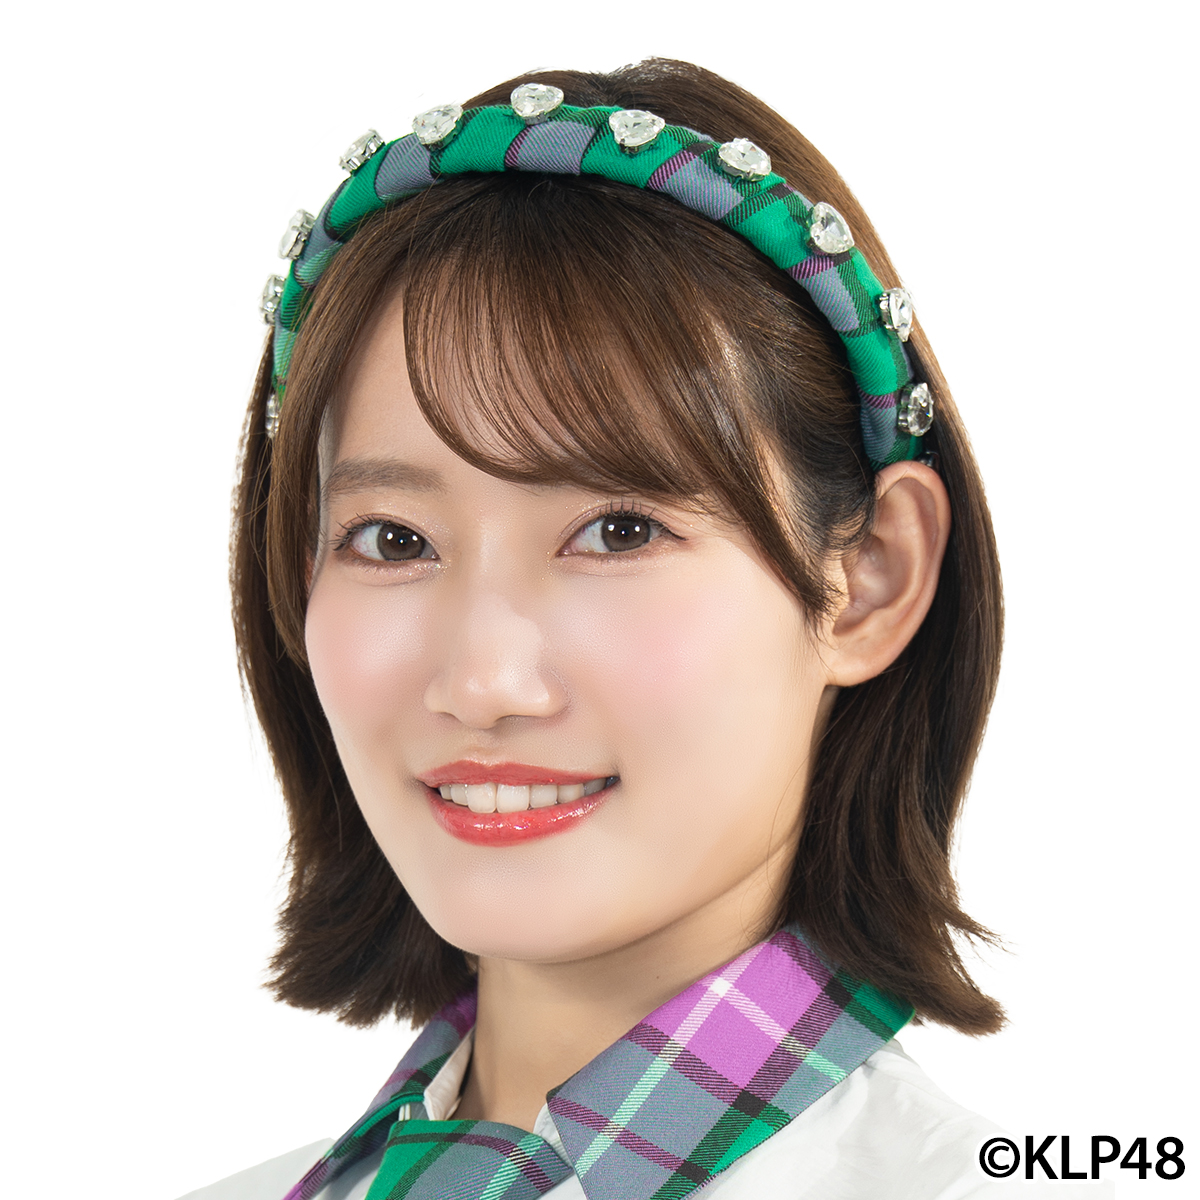
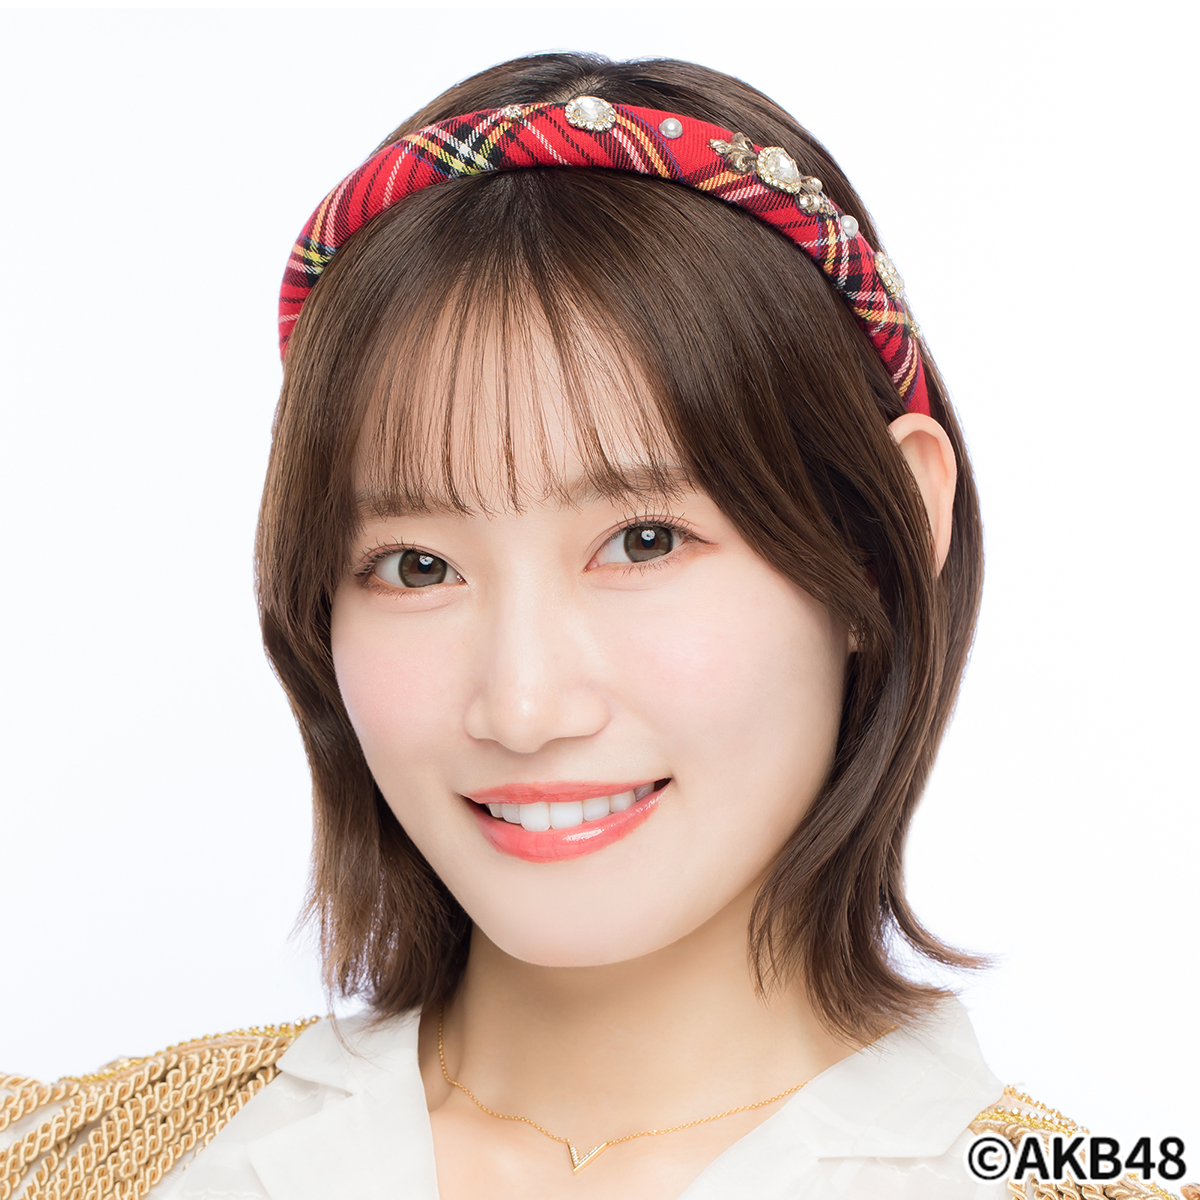
Add files via upload

diff --git a/member.html b/member.html
@@ -242,6 +242,26 @@
             <h5>21期　渡邉葵心</h5>
             <p>わたなべ　きこ</p>
           </div>
+          <div class="swiper-slide">
+            <img src="o_yuna.jpg" width="300" height="300" alt="">
+            <h5>22期　大西ゆな</h5>
+            <p>おおにし　ゆな</p>
+          </div>
+          <div class="swiper-slide">
+            <img src="h_momoka.jpg" width="300" height="300" alt="">
+            <h5>22期　長谷川百々花</h5>
+            <p>はせがわ　ももか</p>
+          </div>
+          <div class="swiper-slide">
+            <img src="m_izumi.jpg" width="300" height="300" alt="">
+            <h5>22期　前田衣澄</h5>
+            <p>まえだ　いずみ</p>
+          </div>
+          <div class="swiper-slide">
+            <img src="y_rinoa.jpg" width="300" height="300" alt="">
+            <h5>22期　山内利乃明</h5>
+            <p>やまうち　りのあ</p>
+          </div>
 
 
 
@@ -305,24 +325,25 @@
         <li><a href="#19ki">１９期</a></li>
         <li><a href="#20ki">２０期</a></li>
         <li><a href="#21ki">２１期</a></li>
+        <li><a href="#22ki">２２期</a></li>
         <br>
       </ul>
     </nav>
     <div class="message">秋田県　柱の会　有志制作</div>
 
     <main>
-      <h2 class="color1">正式（正規）メンバー３７人、　研究生８人、　計　４５ 人</h2>
+      <h2 class="color1">正式（正規）メンバー３７人、　研究生１２人、　計　４９ 人</h2>
       <center>
         <p>13期生（1人）、15期生（1人）、Team８（9人）、ドラ２期生（1人）、16期生（5人）、17期生（9人）、18期生（8人）、19期（3人）<br>
-          20期研究生（3人）、21期研究生（5人）</p>
+          20期研究生（3人）、21期研究生（5人）、22期研究生（４人）</p>
       </center>
       <br>
-      <h3>在籍者数（延べ人数）＝　３６５人（実数３６１人）</h3>
+      <h3>在籍者数（延べ人数）＝　実数３６４人（延べ人数３６９人）</h3>
       <p>
-        1期（21）、2期（17）、3期（13）、4期（18）、5期（12）、6期（4）、7期（10）、8期（15）、9期（14）、10期（10）、11期（10）、12期（9）、13期（16）、14期（6）、15期（12）、兼任（15）、ドラ1期（6）、移籍（4）、大人AKB（1）、チーム8（75）、ドラ2期（7）、留学（1）、16期（19）、ドラ3期（18）、17期（11）、18期（8）、19期（5）、20期（3）、21期（5）
+        1期（21）、2期（17）、3期（13）、4期（18）、5期（12）、6期（4）、7期（10）、8期（15）、9期（14）、10期（10）、11期（10）、12期（9）、13期（16）、14期（6）、15期（12）、兼任（15）、ドラ1期（6）、移籍（4）、大人AKB（1）、チーム8（75）、ドラ2期（7）、留学（1）、16期（19）、ドラ3期（18）、17期（11）、18期（8）、19期（5）、20期（3）、21期（5）、22期（4）
       </p>
       <p><small>※　バーチャルアイドルの江口愛実と、バイトAKB（36）は、含めていません。<br>
-          ※　実数にする場合は、重複者が4人いますので、―４で計算すると３６１人になります。</small></p>
+          ※　実数にする場合は、重複者が５人いますので、―５で計算すると３６４人になります。</small></p>
 
       <p>
         <font color="blue">生年月日、（血液型）、出身、在籍期間、チーム歴、愛称、その他（公表時の身長、スリーサイズ）</font>
@@ -333,8 +354,8 @@
         <dl>
           <img src="itano-tomomi.jpg" alt="板野友美の写真" width="100" height="150" align="left">
           <dt class="tcolor">・板野友美 Tomomi Itano</dt>
-          <dd class="dcolor">1991年7月3日、A型、神奈川、05年10月→13年8月、A→K、ともちん、154、80・55・78、<a
-              href="https://rosyluce.com/" target="_blank">ROSY LUCY</a>の代表取締役</dd>
+          <dd class="dcolor">1991年7月3日、A型、神奈川、05年10月→13年8月、A→K、ともちん、154、80・55・78、<a href="https://rosyluce.com/"
+              target="_blank">ROSY LUCY</a>の代表取締役</dd>
           <dt class="tcolor">・宇佐美友紀 Yuki Usami</dt>
           <dd class="dcolor">1984年12月6日、埼玉、05年10月→06年3月、A、ゆっきー</DD>
           <dt class="tcolor">・浦野一美 Kazumi Urano（SDN481期生移籍・卒業）</dt>
@@ -385,8 +406,8 @@
               target="_blank">株式会社Atsuko</a></dd>
           <img src="nakamurakayano.jpg" alt="増山加弥乃の写真" width="80" height="110" align="left">
           <dt class="tcolor">・増山加弥乃 （本名　中村加弥乃）Kayano Masuyama</dt>
-          <dd class="dcolor">1994年2月10日、東京、05年10月→07年11月、A、かやの、<a
-              href="https://www.stardust.co.jp/talent/section1/" target="_blank">スターダストプロモーション</a></dd>
+          <dd class="dcolor">1994年2月10日、東京、05年10月→07年11月、A、かやの、<a href="https://www.stardust.co.jp/talent/section1/"
+              target="_blank">スターダストプロモーション</a></dd>
           <img src="minamiminegishi_new.jpg" alt="峯岸みなみの写真" width="100" height="100" align="left">
           <dt class="tcolor">・峯岸みなみ Minami Minegishi</dt>
           <dd class="dcolor">1992年11月15日、B型、東京、05年10月→21年5月、A→K→B→研究生→4→K、みいちゃん、158、80・60・86、<a
@@ -501,12 +522,12 @@
               target="_blank">ワタナベエンターテインメント</a></dd>
           <img src="kuramochi_asuka.jpeg" alt="倉持明日香の写真" width="100" height="100" align="left">
           <dt class="tcolor">・倉持明日香 Asuka Kuramochi</dt>
-          <dd class="dcolor">1989年9月11日、神奈川、07年5月→15年8月、K→A→K→B、もっちぃ、<a href="https://www.zest-corp.com/management/4699/"
-              target="_blank">ゼスト</a></dd>
+          <dd class="dcolor">1989年9月11日、神奈川、07年5月→15年8月、K→A→K→B、もっちぃ、<a
+              href="https://www.zest-corp.com/management/4699/" target="_blank">ゼスト</a></dd>
           <img src="SatoAmina.jpg" alt="佐藤亜美菜の写真" width="90" height="130" align="left">
           <dt class="tcolor">・佐藤亜美菜 Amina SAto</dt>
-          <dd class="dcolor">1990年10月16日、東京、07年5月→14年6月、A→K、あみな、<a
-              href="https://osawa-inc.co.jp/women/satoamina/" target="_blank">大沢事務所</a></dd>
+          <dd class="dcolor">1990年10月16日、東京、07年5月→14年6月、A→K、あみな、<a href="https://osawa-inc.co.jp/women/satoamina/"
+              target="_blank">大沢事務所</a></dd>
           <dt class="tcolor">・佐伯美香 Mika Saeki（チームB卒業→バイトAKB加入・契約満了）</dt>
           <dd class="dcolor">1989年10月29日、栃木、07年5月→09年8月、B、みかちぃ</dd>
           <img src="nakata_chisato.webp" alt="中田ちさとの写真" width="90" height="120" align="left">
@@ -598,8 +619,8 @@
         <dl>
           <img src="takajoup_aki.jpg" alt="高城亜樹の写真" width="90" height="110" align="left">
           <dt class="tcolor">・高城亜樹 Aki Takajo</dt>
-          <dd class="dcolor">1991年10月3日、東京、08年3月→12年10月、13年4月→16年2月、A→B→K、あきちゃ、<a href="https://www.horipro.co.jp/takajoaki/"
-              target="_blank">ホリプロ</a></dd>
+          <dd class="dcolor">1991年10月3日、東京、08年3月→12年10月、13年4月→16年2月、A→B→K、あきちゃ、<a
+              href="https://www.horipro.co.jp/takajoaki/" target="_blank">ホリプロ</a></dd>
           <img src="nonaka_misato.webp" alt="野中美郷の写真" width="80" height="110" align="left">
           <dt class="tcolor">・野中美郷 Misato Nonaka</dt>
           <dd class="dcolor">1991年4月20日、福岡、08年3月→14年4月、K→B、みちゃ、</dd>
@@ -984,15 +1005,18 @@
         <dt>・小谷里歩 Riho Kotani</dt>
         <dd>兼任元NBM48チームN　→　兼任先AKB48チームA,兼任期間　2012.11.1 → 2013.4.28</dd>
         <dt>・石田杏奈 Anna Ishida</dt>
-        <dd>兼任元SKE48チームKⅡ　→　兼任先AKB48チームB,兼任期間　2012.11.1 → 2013.4.28、<a href="https://thaleiartlife.com/" target="_blank">株式会社ANNA24</a></dd>
+        <dd>兼任元SKE48チームKⅡ　→　兼任先AKB48チームB,兼任期間　2012.11.1 → 2013.4.28、<a href="https://thaleiartlife.com/"
+            target="_blank">株式会社ANNA24</a></dd>
         <dt>・古畑奈和 Nao Furuhata</dt>
-        <dd>兼任元SKE48チームE　→　兼任先AKB48チームK→A,兼任期間　2013.4.28 → 2015.5.29、<a href="https://www.zest-corp.com/" target="_blank">ゼスト</a></dd>
+        <dd>兼任元SKE48チームE　→　兼任先AKB48チームK→A,兼任期間　2013.4.28 → 2015.5.29、<a href="https://www.zest-corp.com/"
+            target="_blank">ゼスト</a></dd>
         <dt>・児玉　遥 Haruka Kodama</dt>
         <dd>兼任元HKT48チームH　→　兼任先AKB48チームA→K,兼任期間　2013.4.28 → 2018.4.1</dd>
         <dt>・渡辺美優紀 Miyuki Watanabe</dt>
         <dd>兼任元NBM48チームN　→　兼任先AKB48チームB,兼任期間　2012.3.24 → 2014.4.23</dd>
         <dt>・生駒里奈 Rina Ikoma</dt>
-        <dd>兼任元　乃木坂46　→　兼任先AKB48チームB,兼任期間　2014.4.24 → 2015.5.14,交換留学生、<a href="https://www.crg.jp/rina-ikoma" target="_blank">CRG</a></dd>
+        <dd>兼任元　乃木坂46　→　兼任先AKB48チームB,兼任期間　2014.4.24 → 2015.5.14,交換留学生、<a href="https://www.crg.jp/rina-ikoma"
+            target="_blank">CRG</a></dd>
         <dt>・矢倉楓子 Fuko Yagura</dt>
         <dd>兼任元NBM48チームM　→　兼任先AKB48チームA,兼任期間　2013.4.28 → 2015.5.29</dd>
         <dt>・朝長美桜 Mio Tomonaga</dt>
@@ -1000,17 +1024,23 @@
         <dt>・松井珠理奈 Jyurina Matui</dt>
         <dd>兼任元SKE48チームS　→　兼任先AKB48チームK,兼任期間　2012.3.24 → 2015.12.24</dd>
         <dt>・山本　彩 Sayaka Yamamoto</dt>
-        <dd>兼任元NBM48チームN　→　兼任先AKB48チームK,兼任期間　2014.4.17 → 2016.5.26、<a href="https://yamamotosayaka.jp/" target="_blank">株式会社SYCompany</a></dd>
+        <dd>兼任元NBM48チームN　→　兼任先AKB48チームK,兼任期間　2014.4.17 → 2016.5.26、<a href="https://yamamotosayaka.jp/"
+            target="_blank">株式会社SYCompany</a></dd>
         <dt>・渋谷凪咲 Nagisa Shibuya</dt>
-        <dd>兼任元NBM48チームM　→　兼任先AKB48チーム4,兼任期間　2014.4.16 → 2018.4.1、<a href="https://n-rise-y.co.jp/" target="_blank">株式会社N-Rise</a></dd>
+        <dd>兼任元NBM48チームM　→　兼任先AKB48チーム4,兼任期間　2014.4.16 → 2018.4.1、<a href="https://n-rise-y.co.jp/"
+            target="_blank">株式会社N-Rise</a></dd>
         <dt>・宮脇咲良 Sakura Miyawaki</dt>
-        <dd>兼任元HKT48チームKⅣ　→　兼任先AKB48チームA,兼任期間　2014.4.22 → 2018.4.1、IZ*ONE→LE SSERAFIM、<a href="https://sourcemusic.com/" target="_blank">source music</a></dd>
+        <dd>兼任元HKT48チームKⅣ　→　兼任先AKB48チームA,兼任期間　2014.4.22 → 2018.4.1、IZ*ONE→LE SSERAFIM、<a href="https://sourcemusic.com/"
+            target="_blank">source music</a></dd>
         <dt>・北川綾巴 Ryoha Kitagawa</dt>
-        <dd>兼任元SKE48チームS　→　兼任先AKB48チーム4,兼任期間　2015.9.1 → 2018.4.1、<a href="http://www.form-japan.com/" target="_blank">FORM JAPAN</a></dd>
+        <dd>兼任元SKE48チームS　→　兼任先AKB48チーム4,兼任期間　2015.9.1 → 2018.4.1、<a href="http://www.form-japan.com/"
+            target="_blank">FORM JAPAN</a></dd>
         <dt>・白間美瑠 Miru Shiroma</dt>
-        <dd>兼任元NBM48チームM　→　兼任先AKB48チームA,兼任期間　2015.9.1 → 2018.4.1、<a href="https://shiromamiru.jp/feature/offer" target="_blank">株式会社 Fcontinue</a></dd>
+        <dd>兼任元NBM48チームM　→　兼任先AKB48チームA,兼任期間　2015.9.1 → 2018.4.1、<a href="https://shiromamiru.jp/feature/offer"
+            target="_blank">株式会社 Fcontinue</a></dd>
         <dt>・矢吹奈子 Nako Yabuki</dt>
-        <dd>兼任元HKT48チームH　→　兼任先AKB48チームB,兼任期間　2015.9.1 → 2018.4.1、<a href="https://www.tp-e.jp/talent/yabukinako/" target="_blank">TWIN PLANET</a></dd>
+        <dd>兼任元HKT48チームH　→　兼任先AKB48チームB,兼任期間　2015.9.1 → 2018.4.1、<a href="https://www.tp-e.jp/talent/yabukinako/"
+            target="_blank">TWIN PLANET</a></dd>
       </section>
       <br>
       <section id="dora1">
@@ -1021,15 +1051,17 @@
           <dd>2001年7月19日、O型、千葉、14年1月→24年2月、K、ひなな、167、カメラマン（フリーランス）</dd>
           <img src="kawamoto_saya.jpeg" alt="川本紗矢の写真" width="100" height="100" align="left">
           <dt>・川本紗矢 Saya Kawamoto</dt>
-          <dd>1998年8月31日、B型、北海道、14年1月→20年8月、B→4、さやや、157、84・62・87、<a href="https://sophiepro.jp/talent/%e5%b7%9d%e6%9c%ac-%e7%b4%97%e7%9f%a2/"
-              target="_blank">ソフィープロモーション</a></dd>
+          <dd>1998年8月31日、B型、北海道、14年1月→20年8月、B→4、さやや、157、84・62・87、<a
+              href="https://sophiepro.jp/talent/%e5%b7%9d%e6%9c%ac-%e7%b4%97%e7%9f%a2/" target="_blank">ソフィープロモーション</a>
+          </dd>
           <img src="gotou_moe.avif" alt="後藤萌咲の写真" width="100" height="100" align="left">
           <dt>・後藤萌咲 Moe Goto</dt>
           <dd>2001年5月20日、O型、愛知、14年1月→19年8月、K→B、もえきゅん、171、<a href="https://www.mewgull.co.jp/"
               target="_blank">Mewgull</a></dd>
           <img src="takita_kayoko.jpg" alt="田北香世子の写真" width="100" height="80" align="left">
           <dt>・田北香世子 Kayoko Takita</dt>
-          <dd>1997年2月13日、O型、千葉、14年1月→22年2月、A→B、かよよん、155、<a href="https://plus-p.jp/talents/takita-kayoko/" target="_blank">プリュ</a>
+          <dd>1997年2月13日、O型、千葉、14年1月→22年2月、A→B、かよよん、155、<a href="https://plus-p.jp/talents/takita-kayoko/"
+              target="_blank">プリュ</a>
           </dd>
           <dt>・西山怜那 Rena Nishiyama</dt>
           <dd>2001年1月14日、O型、青森、14年1月→15年12月、A、にっすぃー、151</dd>
@@ -1116,7 +1148,8 @@
               target="_blank">Sizuk Entertainment</a></dd>
           <img src="yokoyama_yui8.jpg" alt="横山結衣の写真" width="100" height="100" align="left">
           <dt>［青森県］・横山結衣 Yui Yokoyama　2025年芸名「相馬 結衣」（そうま・ゆい）に変更</dt>
-          <dd>2001年2月22日、O型、14年4月→21年11月、8、ヨコちゃん、160、<a href="https://fabfactory.co.jp/" target="_blank">株式会社FabFactory</a></dd>
+          <dd>2001年2月22日、O型、14年4月→21年11月、8、ヨコちゃん、160、<a href="https://fabfactory.co.jp/"
+              target="_blank">株式会社FabFactory</a></dd>
           <dt>［秋田県］・谷川聖 Hijiri Tanikawa</dt>
           <dd>2000年12月26日、A型、秋田、14年4月→19年5月、8→8/A、ひじりん、160</dd>
           <dt>　　　　 ・布谷梨琉 Riru Nunoya</dt>
@@ -1141,14 +1174,15 @@
           <dd>2004年5月19日、AB型、8、18年4月→19年8月、149</dd>
           <img src="hasegawa_momoka.jpg" alt="長谷川百々花の写真" width="100" height="100" align="left">
           <dt>　　　　 ・長谷川百々花 Momoka Hasegawa</dt>
-          <dd>2006年12月14日、8、19年10月→21年3月、159、<a href="http://mamaandson.jp/" target="_blank">Mama&Son</a></dd>
+          <dd>2006年12月14日、8、19年10月→21年3月、26年9月→<font color="red">（22期研究生として復帰）</font>、159、</dd>
           <img src="okabe_rin.jpg" alt="岡部麟の写真" width="90" height="100" align="left">
           <dt>［茨城県］・岡部麟 Rin Okabe</dt>
           <dd>1996年11月7日、茨城、14年4月→24年4月、8→8/A→A、りんりん、159、<a
               href="https://www.horipro.co.jp/talent-sort/?sort=50%E9%9F%B3%E9%A0%86" target="_blank">ホリプロ</a></dd>
           <img src="honda_hitomi.jpg" alt="本田仁美の写真" width="90" height="100" align="left">
           <dt>［栃木県］・本田仁美 Hitomi Honda</dt>
-          <dd>2001年10月6日、A型、14年4月→24年1月、8、ひぃちゃん、158、IZ*ONE→SAY MY NAME、<a href="https://in-kode.jp/home/" target="_blank">iNKODE</a></dd>
+          <dd>2001年10月6日、A型、14年4月→24年1月、8、ひぃちゃん、158、IZ*ONE→SAY MY NAME、<a href="https://in-kode.jp/home/"
+              target="_blank">iNKODE</a></dd>
           <img src="shimizu_maria.jpg" alt="清水麻璃亜の写真" width="90" height="110" align="left">
           <dt>［群馬県］・清水麻璃亜 Maria Shimizu</dt>
           <dd>1997年9月29日、A型、群馬、14年4月→23年8月、8→8/A→A、まりあ、159、<a href="https://ykagent.jp/talent/"
@@ -1457,7 +1491,8 @@
               <font color="pink">ピンク</font>
             </b>☓<b>
               <font color="#ffbb00">黄</font>
-            </b>、<a href="https://avexnet.jp/contents/YMUCM-OFCL-0001" target="_blank">エイベックス・AY・ファクトリー（avex AY factory）</a></dd>
+            </b>、<a href="https://avexnet.jp/contents/YMUCM-OFCL-0001" target="_blank">エイベックス・AY・ファクトリー（avex AY
+              factory）</a></dd>
           <img src="suzuha.jpg" alt="山根涼羽" width="100" height="100" align="left">
           <dt>
             <font color="red">・山根涼羽 Suzuha Yamane</font>（KLP48から復帰）
@@ -1859,6 +1894,45 @@
             <font color="blue">青</font>
           </b>☓<b>
             <font color="blue">青</font>
+          </b>、<a href="https://www.akb48.co.jp/company" target="_blank">DH</a></dd>
+      </section>
+      <section id="22ki">
+        <h2>２２期研究生(４人在籍)2026年9月26日（土）お披露目</h2>
+        <img src="o_yuna.jpg" alt="大西ゆなの写真" width="100" height="100" align="left">
+        <dt>
+          <font color="red">・大西ゆな Yuna Oonishi</font>
+        </dt>
+        <dd>2008年6月15日、長崎県、26年9月→、ゆーちゃん、<b>
+            <font color="purple">紫</font>
+          </b>☓<b>
+            <font color="lightgreen">黄緑</font>
+          </b>、<a href="https://www.akb48.co.jp/company" target="_blank">DH</a></dd>
+           <img src="h_momoka.jpg" alt="長谷川百々花の写真" width="100" height="100" align="left">
+        <dt>
+          <font color="red">・長谷川百々花 Momoka Hasegawa</font>
+        </dt>
+        <dd>2006年12月14日、福島県、26年9月→、はせもも、<b>
+            <font color="orange">オレンジ</font>
+          </b>☓<b>
+            <font color="orange">オレンジ</font>
+          </b>、<a href="https://www.akb48.co.jp/company" target="_blank">DH</a></dd>
+           <img src="m_izumi.jpg" alt="前田衣澄の写真" width="100" height="100" align="left">
+        <dt>
+          <font color="red">・前田衣澄 Izumi Maeda</font>
+        </dt>
+        <dd>2008年11月17日、東京都、26年9月→、いず、<b>
+            <font color="lightgreen">黄緑</font>
+          </b>☓<b>
+            <font color="lightgreen">黄緑</font>
+          </b>、<a href="https://www.akb48.co.jp/company" target="_blank">DH</a></dd>
+           <img src="y_rinoa.jpg" alt="山内利乃明の写真" width="100" height="100" align="left">
+        <dt>
+          <font color="red">・山内利乃明 Rinoa Yamauchi</font>
+        </dt>
+        <dd>2012年12月13日、愛媛県、26年9月→、りのあ、<b>
+            <font color="lightpink">薄ピンク</font>
+          </b>☓<b>
+            <font color="lightgreen">黄緑</font>
           </b>、<a href="https://www.akb48.co.jp/company" target="_blank">DH</a></dd>
       </section>
       <br>
